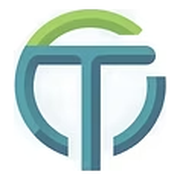
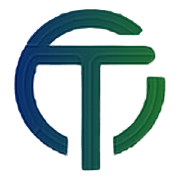
Repaint the mark in the title sweep
logo.png, apple-touch-icon.png and favicon.ico now carry the same
--title-sweep the masthead and page titles carry:

    linear-gradient(90deg, #0A2E6E 0%, #1F712F 100%)

The mark already ran a sweep of its own -- measured, hue 77deg at the
green arc to 207deg at the teal ring -- so this is the right idea moved
onto the site's own pair rather than a new idea.

Painted flat through a mask, the way background-clip: text paints the
titles, plus a high-pass of the original's luminance to keep the internal
edges. Keeping the artwork's full shading instead was tried and reverted:
its bevel runs diagonally, the gradient runs horizontally, and the two
together read as blotches. Flattening with no high-pass was also tried --
the green arc sits directly on the T's crossbar with no gap, so the two
weld into one blob.

Column mean against the ramp: 25% #134060 vs #0F3F5E, 50% #215C5B vs
#14504E, 75% #1B5F3F vs #1A603F, 100% #276D33 vs #1F712F.

The favicon's four frames are recoloured from their own hinted artwork,
not resampled from the 64.

sweep-icon.py is the script, with DETAIL as the one dial. Supersedes the
note at brand-sweep.css section 4 that the logo is left alone.

diff --git a/sweep-icon.py b/sweep-icon.py
@@ -1,0 +1,152 @@
+#!/usr/bin/env python3
+"""
+sweep-icon.py — repaint the procedure.tax mark in the site's own title sweep.
+
+brand-sweep.css paints the masthead and every page title with
+
+    --title-sweep: linear-gradient(90deg, #0A2E6E 0%, #1F712F 100%)
+
+and it paints it FLAT, through a glyph mask, via background-clip: text. There is
+no shading inside a swept title, just the gradient cut to the shape of the
+letters. This does the same to the mark: build a mask from the artwork, paint
+that gradient through it, composite over white.
+
+Two earlier attempts, both wrong, both worth recording:
+
+  1. Keep the artwork's shading and move only its hue. The mark's shading is a
+     BEVEL — light along the top-left of every stroke, dark along the bottom-
+     right. A bevel running diagonally underneath a gradient running horizontally
+     does not read as a sweep, it reads as blotches. Measured, the column means
+     wandered a whole step off the ramp at the green end.
+
+  2. Pure flat fill through one mask. Smooth, and it destroys the mark. The
+     green arc sits DIRECTLY on the T's crossbar with no gap between them — in
+     the original they are told apart by colour alone, arc green against bar
+     teal. Give both the same gradient and they weld into one heavy blob across
+     the top-left, and the mark stops reading as a C and a T.
+
+What works is flat plus a HIGH-PASS of the original's luminance. The blotches in
+(1) were low-frequency: the broad bevel. The structure lost in (2) was high-
+frequency: the boundaries where one stroke crosses another. Blurring the
+original's luminance and subtracting gives exactly the second without the first,
+so the gradient stays smooth across x while every internal edge survives.
+
+Measured on the result, column mean against the ramp:
+
+    25%  #134060  vs  #0F3F5E      75%  #1B5F3F  vs  #1A603F
+    50%  #215C5B  vs  #14504E     100%  #276D33  vs  #1F712F
+
+MASK. The files are opaque RGB on white with no alpha, so the shape has to be
+recovered. Saturation separates it cleanly — measured on logo.png:
+
+    saturation   px     mean luminance   what it is
+    0.02-0.12    2894      0.96-0.98     pale interior wash, and the halo
+    0.12-0.20     592      0.66          the anti-aliased edge band
+    0.20-0.35    3464      0.52          the teal strokes
+    0.35-0.60     516      0.71          the light green top arc
+
+so a smoothstep from 0.06 to 0.20 takes both inks at full strength, takes the
+edge band as partial coverage, and leaves the wash at nothing. Luminance would
+NOT separate it: the green arc sits at 0.71 and the wash at 0.96, far too close,
+which is why the arc survives here and would have been eaten by a threshold on
+darkness.
+
+The gradient is hung on the mask's bounding box, not on the canvas, so the ends
+land on exactly #0A2E6E and #1F712F however much white padding a file has around
+the mark — and the three files have very different amounts.
+
+    python3 sweep-icon.py logo.png.orig logo.png
+"""
+
+import sys
+import numpy as np
+from PIL import Image, ImageFilter
+
+SWEEP_A = (0x0A, 0x2E, 0x6E)    # navy,  left  end
+SWEEP_B = (0x1F, 0x71, 0x2F)    # green, right end
+
+MASK_LO, MASK_HI = 0.06, 0.20   # saturation band for the coverage mask
+DETAIL = 1.15                   # how hard the internal edges come back
+BG = (255, 255, 255)
+
+
+def _to_linear(c):
+    return np.where(c <= 0.04045, c / 12.92, ((c + 0.055) / 1.055) ** 2.4)
+
+
+def _to_srgb(c):
+    c = np.clip(c, 0.0, 1.0)
+    return np.where(c <= 0.0031308, c * 12.92, 1.055 * c ** (1 / 2.4) - 0.055)
+
+
+def _blur(arr, sigma):
+    im = Image.fromarray(np.clip(arr * 255, 0, 255).astype(np.uint8))
+    return np.asarray(im.filter(ImageFilter.GaussianBlur(sigma))).astype(float) / 255
+
+
+def sweep(img, detail=DETAIL):
+    a = np.asarray(img.convert("RGB")).astype(np.float64) / 255.0
+    h, w, _ = a.shape
+
+    # ---- coverage mask ----
+    sat = a.max(2) - a.min(2)
+    t = np.clip((sat - MASK_LO) / (MASK_HI - MASK_LO), 0.0, 1.0)
+    cov = t * t * (3 - 2 * t)                      # smoothstep
+    if cov.max() <= 0:
+        return img.convert("RGB")
+
+    cols = np.where(cov.max(0) > 0.5)[0]
+    if len(cols) == 0:
+        cols = np.where(cov.max(0) > 0)[0]
+    x0, x1 = int(cols[0]), int(cols[-1])
+
+    # ---- the ramp ----
+    # CSS interpolates a gradient in sRGB, so this does too. The point is to
+    # match the title sitting next to it, not to be prettier than it.
+    u = np.clip((np.arange(w) - x0) / max(1, x1 - x0), 0.0, 1.0)
+    A = np.array(SWEEP_A, dtype=np.float64) / 255.0
+    B = np.array(SWEEP_B, dtype=np.float64) / 255.0
+    grad = np.broadcast_to(
+        (A[None, :] + (B - A)[None, :] * u[:, None])[None, :, :], (h, w, 3))
+
+    # ---- high-pass of the original's luminance ----
+    # Masked blur: blur L*cov and cov separately and divide, so the white
+    # outside the mark cannot bleed in and leave a bright halo along every
+    # outer edge. sigma scales with the file so the 16px favicon frame and the
+    # 246px logo keep the same detail at their own scale.
+    L = a @ [0.2126, 0.7152, 0.0722]
+    sigma = max(0.8, w / 120.0)
+    num = _blur(L * cov, sigma)
+    den = _blur(cov, sigma)
+    L_blur = np.where(den > 0.02, num / np.maximum(den, 1e-6), L)
+    out = np.clip(grad + ((L - L_blur) * detail)[..., None], 0.0, 1.0)
+
+    # Composite in LINEAR light. Compositing anti-aliased edges in gamma space
+    # is the classic way to get a dark rim around artwork; at 16px, where a
+    # third of the mark is edge pixels, it is plainly visible.
+    bg = _to_linear(np.array(BG, dtype=np.float64) / 255.0)[None, None, :]
+    al = cov[..., None]
+    px = _to_srgb(_to_linear(out) * al + bg * (1 - al))
+    return Image.fromarray(np.rint(px * 255).astype(np.uint8), "RGB")
+
+
+def main(src, dst):
+    if src.lower().endswith(".ico"):
+        im = Image.open(src)
+        sizes = sorted(im.info.get("sizes") or {im.size})
+        frames = []
+        for s in sizes:
+            im.size = s          # selects the stored frame; not a resize
+            frames.append(sweep(im.copy()))
+        # Each frame is recoloured from its own hand-hinted artwork, and
+        # append_images keeps them — otherwise Pillow resamples the 64 down to
+        # 16 and the hinting is gone.
+        frames[-1].save(dst, format="ICO", sizes=sizes, append_images=frames[:-1])
+        print(f"{dst}: {len(sizes)} frames {sizes}")
+    else:
+        sweep(Image.open(src)).save(dst)
+        print(f"{dst}: {Image.open(dst).size}")
+
+
+if __name__ == "__main__":
+    main(sys.argv[1], sys.argv[2])
